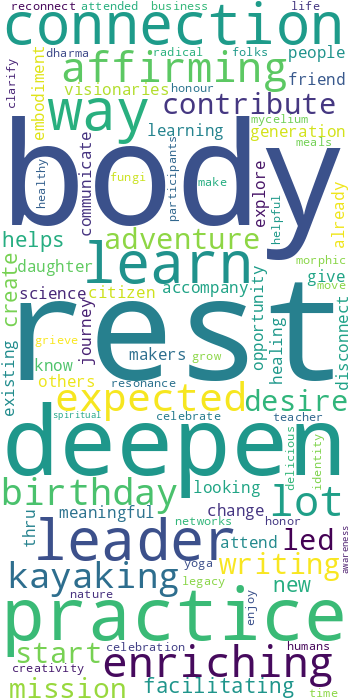
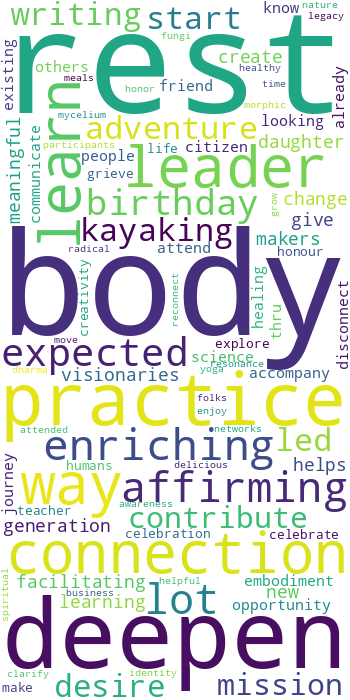
data update

diff --git a/readme.md b/readme.md
@@ -10,4 +10,4 @@
 * Update data folder
 * re-run charts-d3.js and text_analysis.py
 
-**Last data refresh:** October 6, 2025
+**Last data refresh:** October 13, 2025
